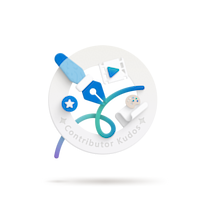
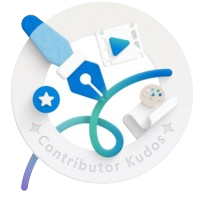
docs: update badges

diff --git a/README.md b/README.md
@@ -67,12 +67,14 @@
 ## 🚀 Badges
 
 <p float="left">
-  <img alt="Microsoft MVP" src="./images/mvp_logo.png" width="150" height="150" />
+  <img alt="Microsoft MVP 2024" src="./images/mvp-logo-2024.png" width="150" height="150" />
+  <img alt="KubeCon+CloudNativeCon NA 2024 Track Chair" src="./images/track-chair-kubecon-2024.png" width="150" height="150" />
+  <img alt="Microsoft MVP 2023" src="./images/mvp-logo-2023.png" width="150" height="150" />
   <img alt="CNCF Ambassador" src="./images/cncf-ambassador-spring-2023.png" width="150" height="150" />
   <img alt="KubeCon+CloudNativeCon EU 2023 Speaker" src="./images/speaker-kubecon-2023.png" width="150" height="150" />
   <img alt="KubeCon+CloudNativeCon NA 2023 Program Committee Member" src="./images/program-committee-kubecon-na.png" width="150" height="150" />
   <img alt="Cloud Native Sustainability Week Organizer" src="./images/organizer-cloud-native-sustainability-week.png" width="150" height="150" />
-  <img alt="Microsoft Contributor Kudos" src="./images/microsoft-contributor-kudos1.png" width="150" height="150" />
+  <img alt="Microsoft Contributor Kudos" src="./images/microsoft-contributor-kudos.png" width="150" height="150" />
   <br>
   <img alt="Azure Content Hero" src="./images/azure-content-hero.png" width="150" height="150" />
   <img alt="Azure Community Hero" src="./images/azure-community-hero.png" width="150" height="150" />  
